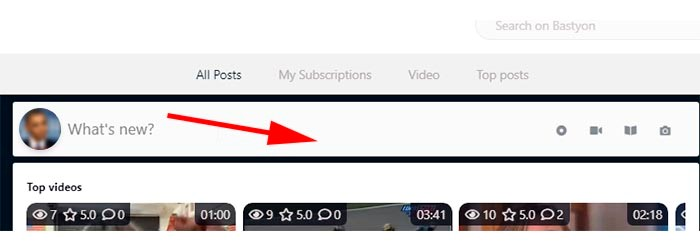
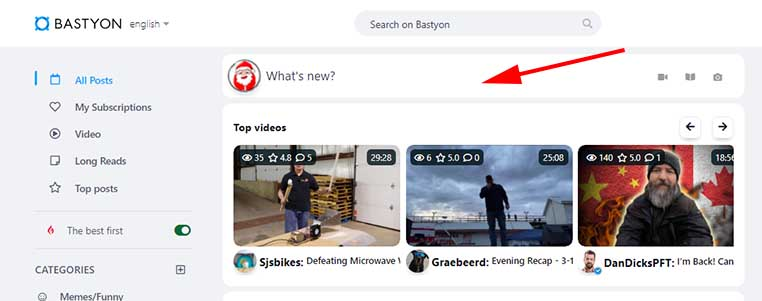
update-pictures 16.03.22

diff --git a/js/satolist.js b/js/satolist.js
@@ -4444,7 +4444,7 @@ Platform = function (app, listofnodes) {
                                     id : 'buy-pkoin3',
                                     q : '  ',
                                     a : 'Your PKOIN wallet address is placed in your account. <br>For looking that Click your avatar icon into the right top corner',
-                                    img: '<img src="img/buy-pkoin3.jpg" alt="" />'
+                                    img: '<img src="img/Myvideos1.jpg" alt="" />'
                                 },
                                 {
                                     id : 'buy-pkoin4',
@@ -4560,7 +4560,7 @@ Platform = function (app, listofnodes) {
                                     id : 'earnbastyon9en',
                                     q : '',
                                     a : 'You will need to deposit PKOIN to earn stakes, click Deposit. After clicking Deposit you will see a PKOIN address. You can copy the address and send PKOIN to it. If you did not yet buy PKOIN, you can buy it in the following ways: <br />1.	Buy for cryptocurrency at pkoin.net (or on DigiFinex or Bitforex exchanges) <br />2.	Buy it by selecting PKOIN/Peer-to-Peer tag on the left side of the Bastyon application. Select a seller and write to them in chat (at your own risk)',
-                                    img: '<img src="img/earnbastyon9ru (1).jpg" alt="" />'
+                                    img: '<img src="img/per-to-per2.jpg" alt="" />'
                                 },	
                                 {
                                     id : 'earnbastyon10en',
@@ -5003,7 +5003,7 @@ Platform = function (app, listofnodes) {
                                     id : 'privatekey1',
                                     q : 'Click your avatar icon in the top right corner',
                                     a : '',
-                                    img: '<img src="img/privatekey1.jpg" alt="" />'
+                                    img: '<img src="img/Myvideos1.jpg" alt="" />'
                                 },
                                 {
                                     id : 'privatekey2',
@@ -5168,7 +5168,7 @@ Platform = function (app, listofnodes) {
                                         id : 'buy-pkoin1',
                                         q : '  ',
                                         a : 'Вы можете купить PKOIN следующими способами: Выберите категорию «PKOIN/Из рук в руки» и посмотрите на предложения о купле/продаже PKOIN, либо сами разместите свое предложение о купле/продаже PKOIN.	',
-                                        img: '<img src="img/per-to-per.jpg" alt="" />'
+                                        img: '<img src="img/wn.jpg" alt="" />'
                                     },
                                     {
                                         id : 'buy-pkoin21',
@@ -5186,7 +5186,7 @@ Platform = function (app, listofnodes) {
                                         id : 'buy-pkoin3',
                                         q : '  ',
                                         a : 'Адрес вашего PKOIN-кошелька находится в вашем аккаунте на Бастионе. Чтобы его найти – кликните иконку вашего аватара, которая расположена в правом верхнем углу.',
-                                        img: '<img src="img/upl1.jpg" alt="" />'
+                                        img: '<img src="img/wn.jpg" alt="" />'
                                     },
                                     {
                                         id : 'buy-pkoin4',
@@ -5302,7 +5302,7 @@ Platform = function (app, listofnodes) {
                                         id : 'earnbastyon9',
                                         q : '',
                                         a : 'Вам нужно будет внести PKOIN, чтобы заработать ставки, нажмите "Внести". После нажатия кнопки Пополнить счет вы увидите адрес пункта. Вы можете скопировать адрес и отправить по нему PKOIN. Если вы еще не купили PKOIN, вы можете купить его следующими способами: <br />1. Покупайте за криптовалюту на pkoin.net (или на биржах DigiFinex Orbit forex)<br />2. Купите его, выбрав тег "PKOIN/Из рук в руки" в левой части приложения Bastyon. Выберите продавца и напишите ему в чат (на свой страх и риск)',
-                                        img: '<img src="img/earnbastyon9ru (1).jpg" alt="" />'
+                                        img: '<img src="img/earnbastyon9ru99.jpg" alt="" />'
                                     },	
                                     {
                                         id : 'earnbastyon10',
@@ -5500,28 +5500,28 @@ Platform = function (app, listofnodes) {
                                 },
                                 {
                                     id : 'Uploading2',
-                                    q : 'Нажмите «Что нового?» во вкладке «Вся лента»',
+                                    q : 'Нажмите «Что нового?» во вкладке «Лента»',
                                     a : '',
-                                    img: '<img src="img/upl1.jpg" alt="" />'
+                                    img: '<img src="img/videoUpl.jpg" alt="" />'
                                 },
                                 {
                                     id : 'Uploading3',
                                     q : 'Далее, нажмите «Загрузить видео», а затем во всплывающем окне нажмите «Выбрать файл». Выберите на персональном компьютере необходимый файл и ожидайте окончания загрузки и последующего перекодирования видео. ',
                                     a : '',
-                                    img: '<img src="img/upl2.jpg" alt="" />',
+                                    img: '<img src="img/videoUpl2.jpg" alt="" />',
                                     
                                 },
                                 {
                                     id : 'Uploading4',
                                     q : '',
                                     a : '',
-                                    img: '<img src="img/upl3.jpg" alt="" />'
+                                    img: '<img src="img/videoUpl3.jpg" alt="" />'
                                 },
                                 {
                                     id : 'Uploading5',
                                     q : '',
                                     a : '',
-                                    img: '<img src="img/upl4.jpg" alt="" />'
+                                    img: '<img src="img/videoUpl4.jpg" alt="" />'
                                 },
                                 {
                                     id : 'Uploading6',
@@ -5553,13 +5553,13 @@ Platform = function (app, listofnodes) {
                                     id : 'Myvideos1',
                                     q : '  ',
                                     a : 'Нажмите иконку вашего аватара в правом верхнем углу.',
-                                    img: '<img src="img/prkey1.jpg" alt="" />'
+                                    img: '<img src="img/wn.jpg" alt="" />'
                                 },
                                 {
                                     id : 'Myvideos2',
                                     q : ' ',
                                     a : 'Далее, нажмите кнопку «управление»',
-                                    img: '<img src="img/prkey2.jpg" alt="" />'
+                                    img: '<img src="img/manage.jpg" alt="" />'
                                 },
                                 {
                                     id : 'Myvideos3',
@@ -5747,13 +5747,13 @@ Platform = function (app, listofnodes) {
                                     id : 'privatekey1',
                                     q : 'Кликните по своей иконке, находящейся в правом верхнем углу',
                                     a : '',
-                                    img: '<img src="img/prkey1.jpg" alt="" />'
+                                    img: '<img src="img/wn.jpg" alt="" />'
                                 },
                                 {
                                     id : 'privatekey2',
                                     q : 'Далее, нажмите кнопку «управление»',
                                     a : '',
-                                    img: '<img src="img/prkey2.jpg" alt="" />'
+                                    img: '<img src="img/manage.jpg" alt="" />'
                                 },
                                 {
                                     id : 'privatekey3',
@@ -5807,6 +5807,22 @@ Platform = function (app, listofnodes) {
                                 	
                                 
                                 
+                            ]
+                        
+                        },
+                        {
+                        
+                            name : 'Бонусная Программа Bastyon',
+                            id : 'bonus',
+                        
+                            group : [
+                        
+                                {
+                                    id : 'bonus1',
+                                    q : '',
+                                    a : 'Критерии для получения бонуса за оригинальный контент:  Каждые 15 тысяч просмотров видео + 1500 пятизвёздочных рейтингов от уникальных пользователей + 1500 реферальных пользователей <br />PKOIN или Bitcoin:  1,000 USDT <br />Как ускорить получение бонуса?<br />Делитесь ссылкой на видео в социальных сетях, с помощью мессенджеров или через почту. Выставляйте эксклюзивные материалы для подписчиков в Бастионе (это делается при создании поста, выбрать Для Подписчиков). Эксклюзивные материалы увеличат количество реферальных подписок.<br />Делитесь ссылкой на ваш профиль.<br />Всегда выбирайте Реферальная Ссылка, когда делитесь ссылкой на Бастион (на видео или профиль).<br />Если вы пригласите блоггера и докажете это, вы получите бонус в размере до 25% от первых 4 бонусов.<br />По вопросам обращайтесь support@bastyon.com.',
+                                    img: ''
+                                },                                  
                             ]
                         
                         },
